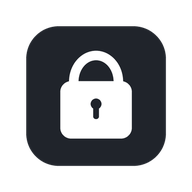
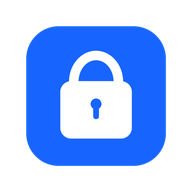
style: refresh app colors and credits

diff --git a/main.py b/main.py
@@ -16,14 +16,18 @@ from PIL import Image
 from core import LockState, WindowsInputLock, normalize_shortcut
 from settings import load_config, save_config
 
-VERSION = "1.0.4"
+VERSION = "1.0.5"
 GITHUB = "https://github.com/rafelolv"
 SOURCE = GITHUB + "/InputLock"
-BG = "#f5f5f7"
+BG = "#f7f9fc"
 CARD = "#ffffff"
-BORDER = "#dfe2e7"
-TEXT = "#20242b"
-MUTED = "#747b85"
+BORDER = "#b9c7de"
+TEXT = "#14213a"
+MUTED = "#58657a"
+ACCENT = "#1764ff"
+ACCENT_HOVER = "#004bd6"
+FREE = "#07864b"
+LOCKED = "#bd4a00"
 FONT = "Segoe UI"
 
 
@@ -56,7 +60,8 @@ class InputLockApp:
         if os.name == "nt":
             root.iconbitmap(str(asset("icon.ico")))
         self.images = {}
-        for name, size in (("icon", 24), ("keyboard", 20), ("mouse", 20)):
+        for name, size in (("icon", 24), ("keyboard", 20), ("mouse", 20),
+                           ("keyboard_active", 20), ("mouse_active", 20)):
             with Image.open(asset(f"{name}.png")) as source:
                 self.images[name] = ctk.CTkImage(light_image=source.copy(), size=(size, size))
         self._build()
@@ -81,17 +86,17 @@ class InputLockApp:
 
         status = tk.Frame(body, bg=BG)
         status.pack(fill="x", pady=(16, 14))
-        self.keyboard_status = self.label(status, "●  Teclado livre", 11, MUTED)
+        self.keyboard_status = self.label(status, "●  Teclado livre", 11, FREE)
         self.keyboard_status.pack(side="left")
-        self.mouse_status = self.label(status, "●  Mouse livre", 11, MUTED)
+        self.mouse_status = self.label(status, "●  Mouse livre", 11, FREE)
         self.mouse_status.pack(side="right")
 
         buttons = tk.Frame(body, bg=BG)
         buttons.pack(fill="x")
         buttons.columnconfigure((0, 1), weight=1, uniform="device")
         options = dict(height=48, corner_radius=8, border_width=1,
-                       border_color=BORDER, fg_color=CARD, hover_color="#e9ecf0",
-                       text_color=TEXT, font=ui_font(13))
+                       border_color=ACCENT, fg_color=CARD, hover_color="#e9f0ff",
+                       text_color=ACCENT, font=ui_font(13))
         self.keyboard_button = ctk.CTkButton(buttons, text="Teclado", image=self.images["keyboard"],
                                              command=lambda: self.toggle_device("keyboard"), **options)
         self.keyboard_button.grid(row=0, column=0, sticky="ew", padx=(0, 5))
@@ -99,8 +104,8 @@ class InputLockApp:
                                           command=lambda: self.toggle_device("mouse"), **options)
         self.mouse_button.grid(row=0, column=1, sticky="ew", padx=(5, 0))
         self.both_button = ctk.CTkButton(body, text="Bloquear ambos", command=self.toggle_both,
-                                         height=40, corner_radius=8, fg_color=TEXT,
-                                         hover_color="#363d48", text_color=CARD, font=ui_font(13))
+                                         height=40, corner_radius=8, fg_color=ACCENT,
+                                         hover_color=ACCENT_HOVER, text_color=CARD, font=ui_font(13))
         self.both_button.pack(fill="x", pady=(10, 0))
 
         row = tk.Frame(body, bg=BG)
@@ -118,11 +123,11 @@ class InputLockApp:
         footer = tk.Frame(body, bg=BG)
         footer.pack(fill="x", pady=(16, 0))
         for title, url, side in (("made by rafaelolv", GITHUB, "left"), ("GitHub ↗", SOURCE, "right")):
-            link = self.label(footer, title, 10, MUTED, cursor="hand2")
+            link = self.label(footer, title, 10, ACCENT, cursor="hand2")
             link.pack(side=side)
             link.bind("<Button-1>", lambda event, target=url: webbrowser.open(target))
-            link.bind("<Enter>", lambda event, widget=link: widget.configure(text_color=TEXT))
-            link.bind("<Leave>", lambda event, widget=link: widget.configure(text_color=MUTED))
+            link.bind("<Enter>", lambda event, widget=link: widget.configure(text_color=ACCENT_HOVER))
+            link.bind("<Leave>", lambda event, widget=link: widget.configure(text_color=ACCENT))
         if not self.preview and os.name != "nt":
             for button in (self.keyboard_button, self.mouse_button, self.both_button):
                 button.configure(state="disabled")
@@ -177,14 +182,16 @@ class InputLockApp:
             return
         self._render_state = state
         keyboard, mouse = state
-        for locked, label, button, name in (
-            (keyboard, self.keyboard_status, self.keyboard_button, "Teclado"),
-            (mouse, self.mouse_status, self.mouse_button, "Mouse"),
+        for locked, label, button, name, kind in (
+            (keyboard, self.keyboard_status, self.keyboard_button, "Teclado", "keyboard"),
+            (mouse, self.mouse_status, self.mouse_button, "Mouse", "mouse"),
         ):
             label.configure(text=f"●  {name} {'bloqueado' if locked else 'livre'}",
-                            text_color="#a3692d" if locked else MUTED)
-            button.configure(fg_color="#e4e8ee" if locked else CARD,
-                             border_color="#bdc5d0" if locked else BORDER)
+                            text_color=LOCKED if locked else FREE)
+            button.configure(fg_color=ACCENT if locked else CARD, border_color=ACCENT,
+                             text_color=CARD if locked else ACCENT,
+                             hover_color=ACCENT_HOVER if locked else "#e9f0ff",
+                             image=self.images[f"{kind}_active" if locked else kind])
         self.both_button.configure(text="Desbloquear ambos" if keyboard and mouse else "Bloquear ambos")
         self.shortcut_entry.configure(state="disabled" if keyboard or mouse else "normal")
 
@@ -202,9 +209,9 @@ class InputLockApp:
         window.transient(self.root)
         self.label(window, f"InputLock {VERSION}", 21, bold=True).pack(anchor="w")
         self.label(window, "made by rafaelolv", 13, MUTED).pack(anchor="w", pady=(6, 16))
-        self.label(window, "Bloqueio temporário de teclado e mouse.\n\nBase: Keylock, de Axorax.\nModificado por rafaelolv em novembro de 2026.\nLicença AGPL-3.0. Sem garantia.\nVocê pode modificar e redistribuir sob essa licença.\n\nBloqueia entradas na sessão atual do Windows.\nNão substitui o bloqueio de sessão (Win + L).\nCtrl + Alt + Del continua disponível.",
+        self.label(window, "Bloqueio temporário de teclado e mouse.\n\nLicença AGPL-3.0. Sem garantia.\nVocê pode modificar e redistribuir sob essa licença.\n\nBloqueia entradas na sessão atual do Windows.\nNão substitui o bloqueio de sessão (Win + L).\nCtrl + Alt + Del continua disponível.",
                    12, MUTED, justify="left").pack(anchor="w")
-        for title, url in (("Código-fonte ↗", SOURCE), ("Projeto original ↗", "https://github.com/Axorax/keylock"),
+        for title, url in (("Código-fonte ↗", SOURCE),
                            ("Licença AGPL-3.0 ↗", SOURCE + "/blob/main/LICENSE")):
             link = self.label(window, title, 12, TEXT, cursor="hand2")
             link.pack(anchor="w", pady=(12, 0))

diff --git a/tools/generate_icon.py b/tools/generate_icon.py
@@ -5,11 +5,11 @@ from PIL import Image, ImageDraw
 ROOT = Path(__file__).resolve().parents[1]
 image = Image.new("RGBA", (1024, 1024), (0, 0, 0, 0))
 draw = ImageDraw.Draw(image)
-draw.rounded_rectangle((16, 16, 1008, 1008), radius=230, fill="#20242b")
+draw.rounded_rectangle((16, 16, 1008, 1008), radius=230, fill="#1764ff")
 draw.arc((320, 190, 704, 630), 180, 360, fill="#ffffff", width=68)
 draw.rounded_rectangle((258, 406, 766, 814), radius=76, fill="#ffffff")
-draw.ellipse((474, 530, 550, 606), fill="#20242b")
-draw.rounded_rectangle((492, 560, 532, 675), radius=18, fill="#20242b")
+draw.ellipse((474, 530, 550, 606), fill="#1764ff")
+draw.rounded_rectangle((492, 560, 532, 675), radius=18, fill="#1764ff")
 image.resize((256, 256), Image.Resampling.LANCZOS).save(ROOT / "assets/icon.png")
 image.save(ROOT / "assets/icon.ico", sizes=[(16, 16), (24, 24), (32, 32), (48, 48), (64, 64), (128, 128), (256, 256)])
 
@@ -17,7 +17,7 @@ image.save(ROOT / "assets/icon.ico", sizes=[(16, 16), (24, 24), (32, 32), (48, 4
 for kind in ("keyboard", "mouse"):
     icon = Image.new("RGBA", (192, 192))
     pen = ImageDraw.Draw(icon)
-    color = "#515966"
+    color = "#1764ff"
     if kind == "keyboard":
         pen.rounded_rectangle((16, 44, 176, 148), radius=16, outline=color, width=9)
         for row in (68, 92):
@@ -29,3 +29,6 @@ for kind in ("keyboard", "mouse"):
         pen.line((96, 20, 96, 81), fill=color, width=8)
         pen.line((52, 84, 140, 84), fill=color, width=8)
     icon.resize((48, 48), Image.Resampling.LANCZOS).save(ROOT / f"assets/{kind}.png")
+    active = icon.copy()
+    active.putdata([(255, 255, 255, pixel[3]) for pixel in active.getdata()])
+    active.resize((48, 48), Image.Resampling.LANCZOS).save(ROOT / f"assets/{kind}_active.png")

diff --git a/build.py b/build.py
@@ -18,6 +18,7 @@ def build_command(mode):
         "--icon=assets/icon.ico", "--add-data=assets/icon.png:assets",
         "--add-data=assets/icon.ico:assets", "--add-data=assets/keyboard.png:assets",
         "--add-data=assets/mouse.png:assets",
+        "--add-data=assets/keyboard_active.png:assets", "--add-data=assets/mouse_active.png:assets",
         "--collect-data=customtkinter", "--copy-metadata=customtkinter",
         "--copy-metadata=Pillow", "--copy-metadata=darkdetect", "--copy-metadata=packaging", "--add-data=LICENSE:.", "--add-data=NOTICE:.",
         "--version-file=version_info.txt", "main.py",

diff --git a/RELEASE_NOTES.md b/RELEASE_NOTES.md
@@ -1,10 +1,10 @@
-InputLock v1.0.4 — instalador.
+InputLock v1.0.5 — cores e apresentação.
 
-- Versão instalada com dependências já extraídas, evitando extração a cada abertura.
-- Instalador com identidade do InputLock e tema claro/escuro conforme o Windows.
-- Compressão ajustada e etapa de confirmação redundante removida.
-- Desinstalação com opção de apagar configurações e dados locais, desmarcada por padrão.
-- Testes automáticos de instalação, abertura e desinstalação nos dois modos.
+- Azul mais vivo nos botões, ícones e marca.
+- Verde para dispositivos livres e laranja para bloqueados.
+- Mais contraste nos textos e no estado dos botões.
+- Layout compacto e controles diretos mantidos.
+- Textos de apresentação e metadados revisados.
 
 ### Downloads
 
@@ -13,6 +13,6 @@ InputLock v1.0.4 — instalador.
 - **InputLock-Source.zip**: código-fonte desta versão.
 - **SHA256SUMS.txt**: checksums dos arquivos.
 
-Windows 10/11 x64. Não precisa instalar Python. A interface continua compacta, com os mesmos três botões.
+Windows 10/11 x64. Não precisa instalar Python.
 
-made by [rafaelolv](https://github.com/rafelolv). Baseado no [Keylock, de Axorax](https://github.com/Axorax/keylock). Licença AGPL-3.0.
+made by [rafaelolv](https://github.com/rafelolv). Licença AGPL-3.0.
